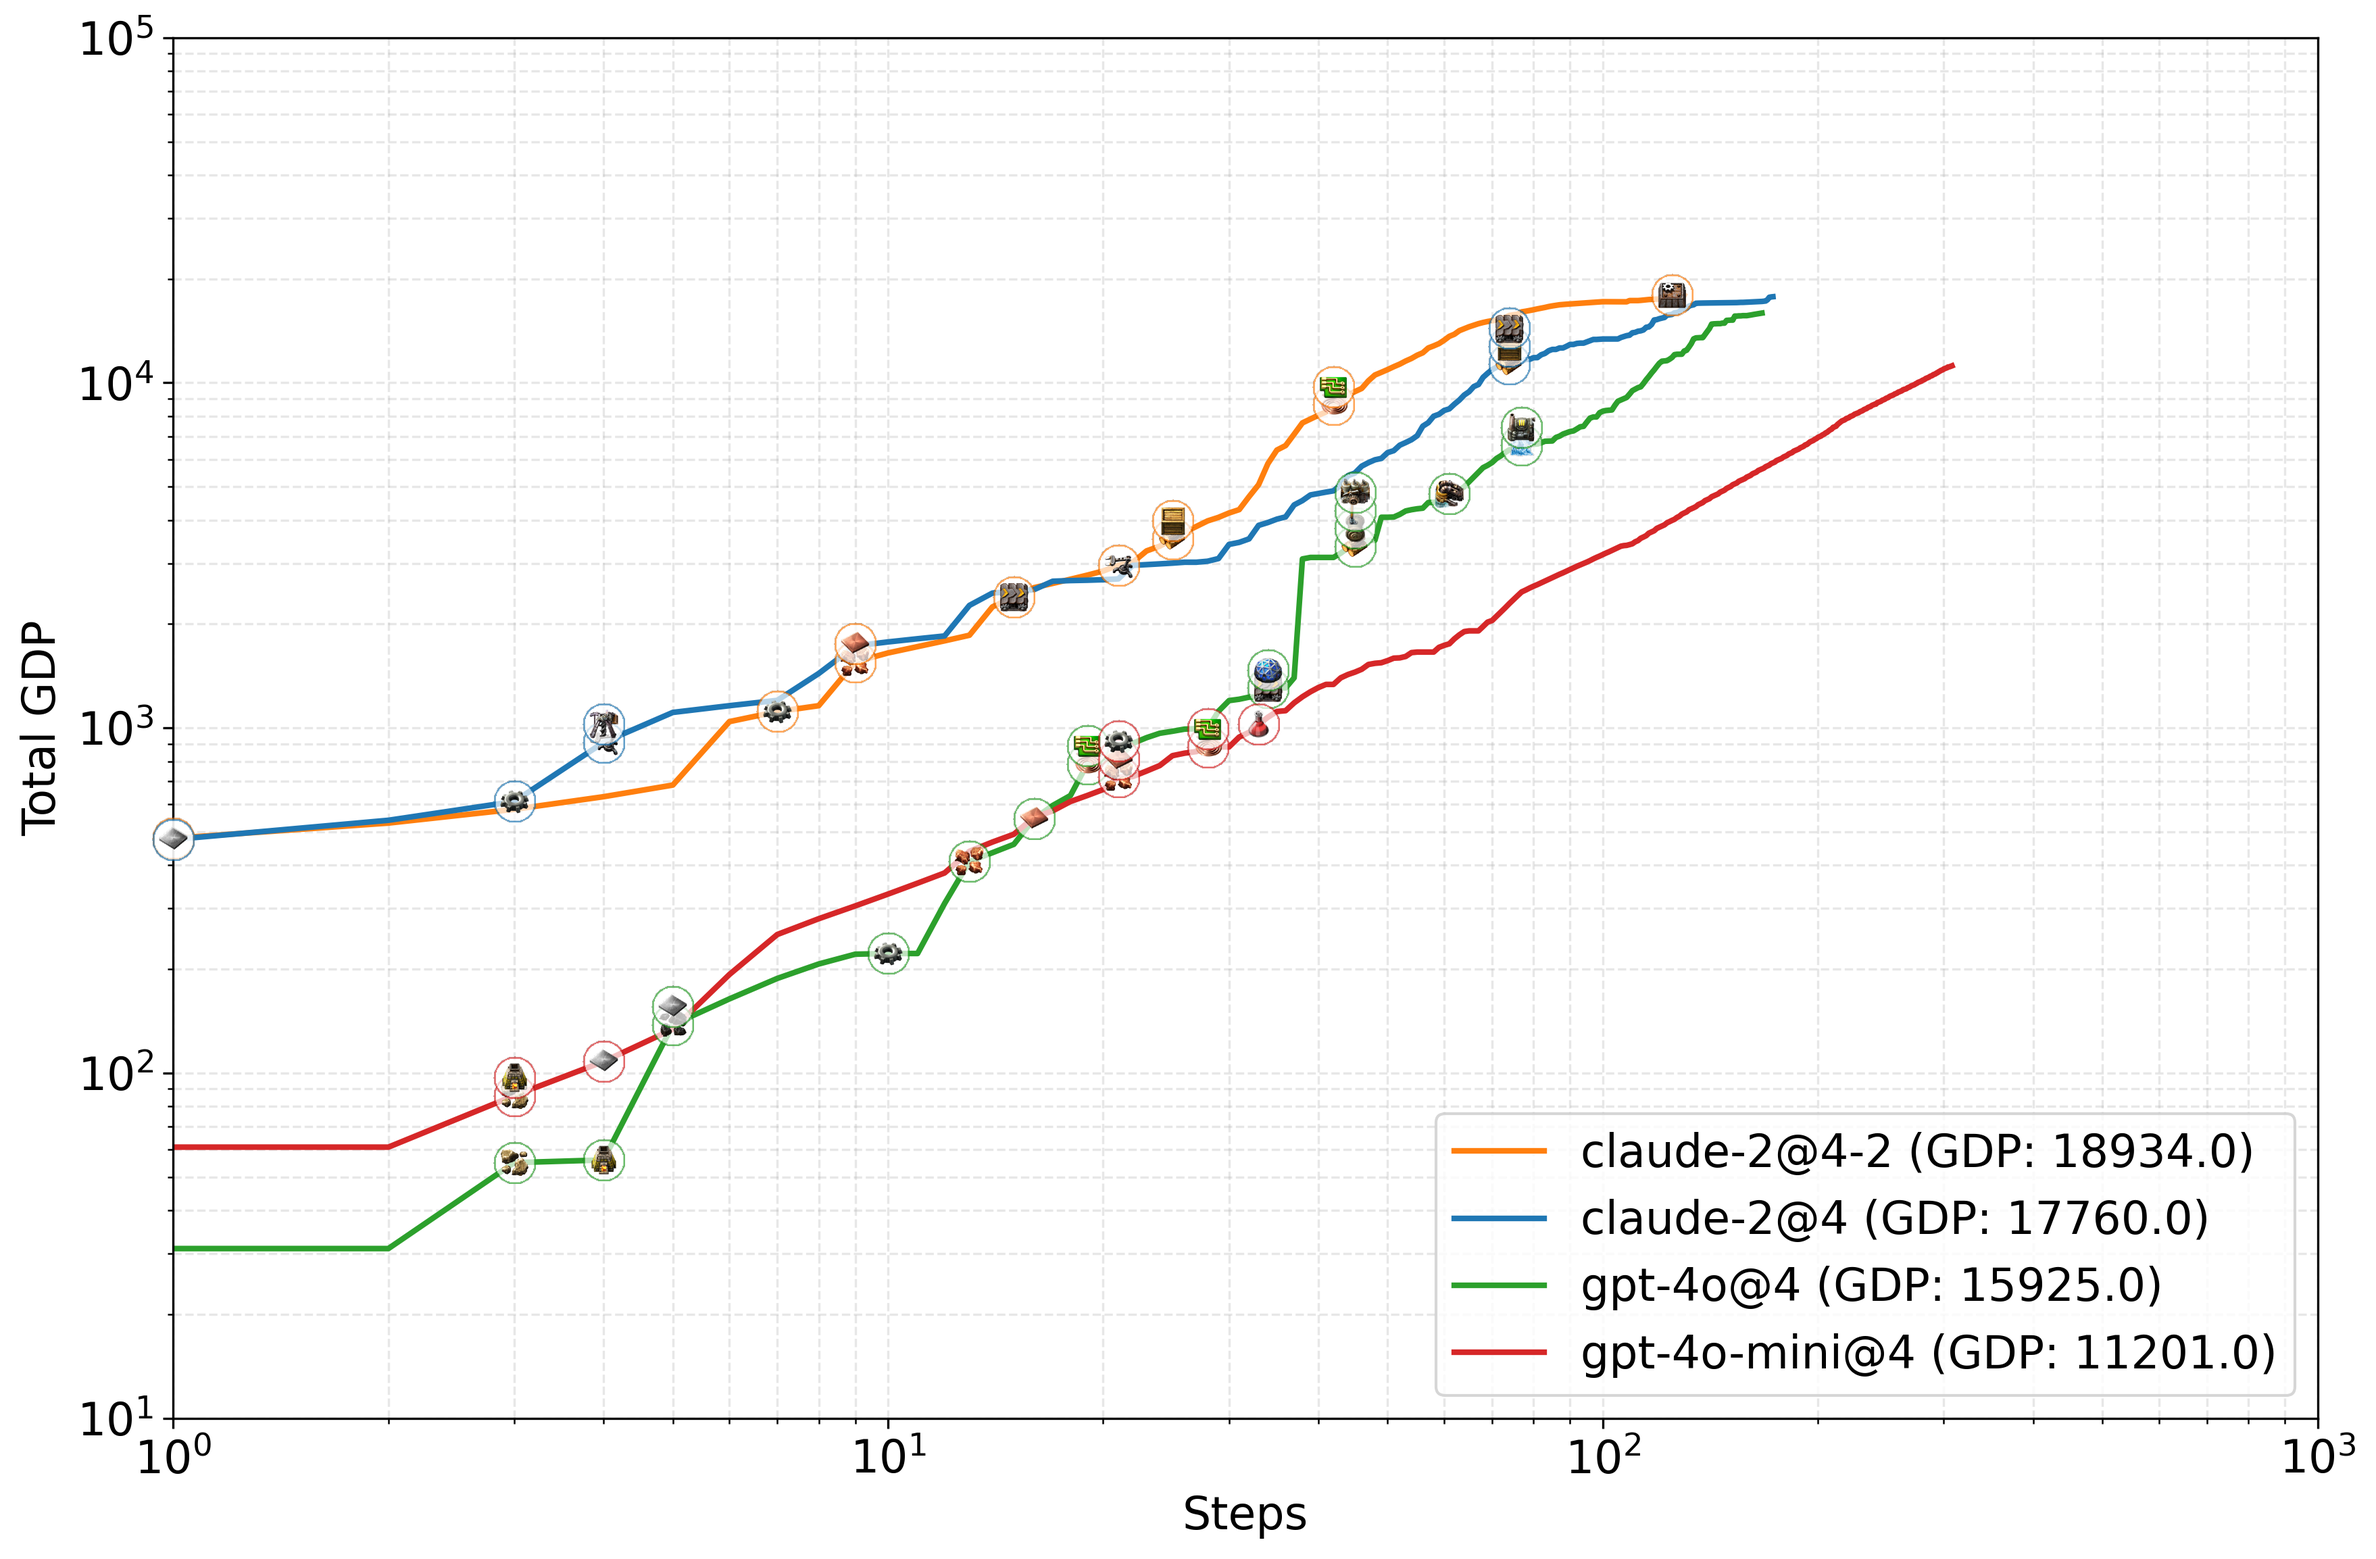
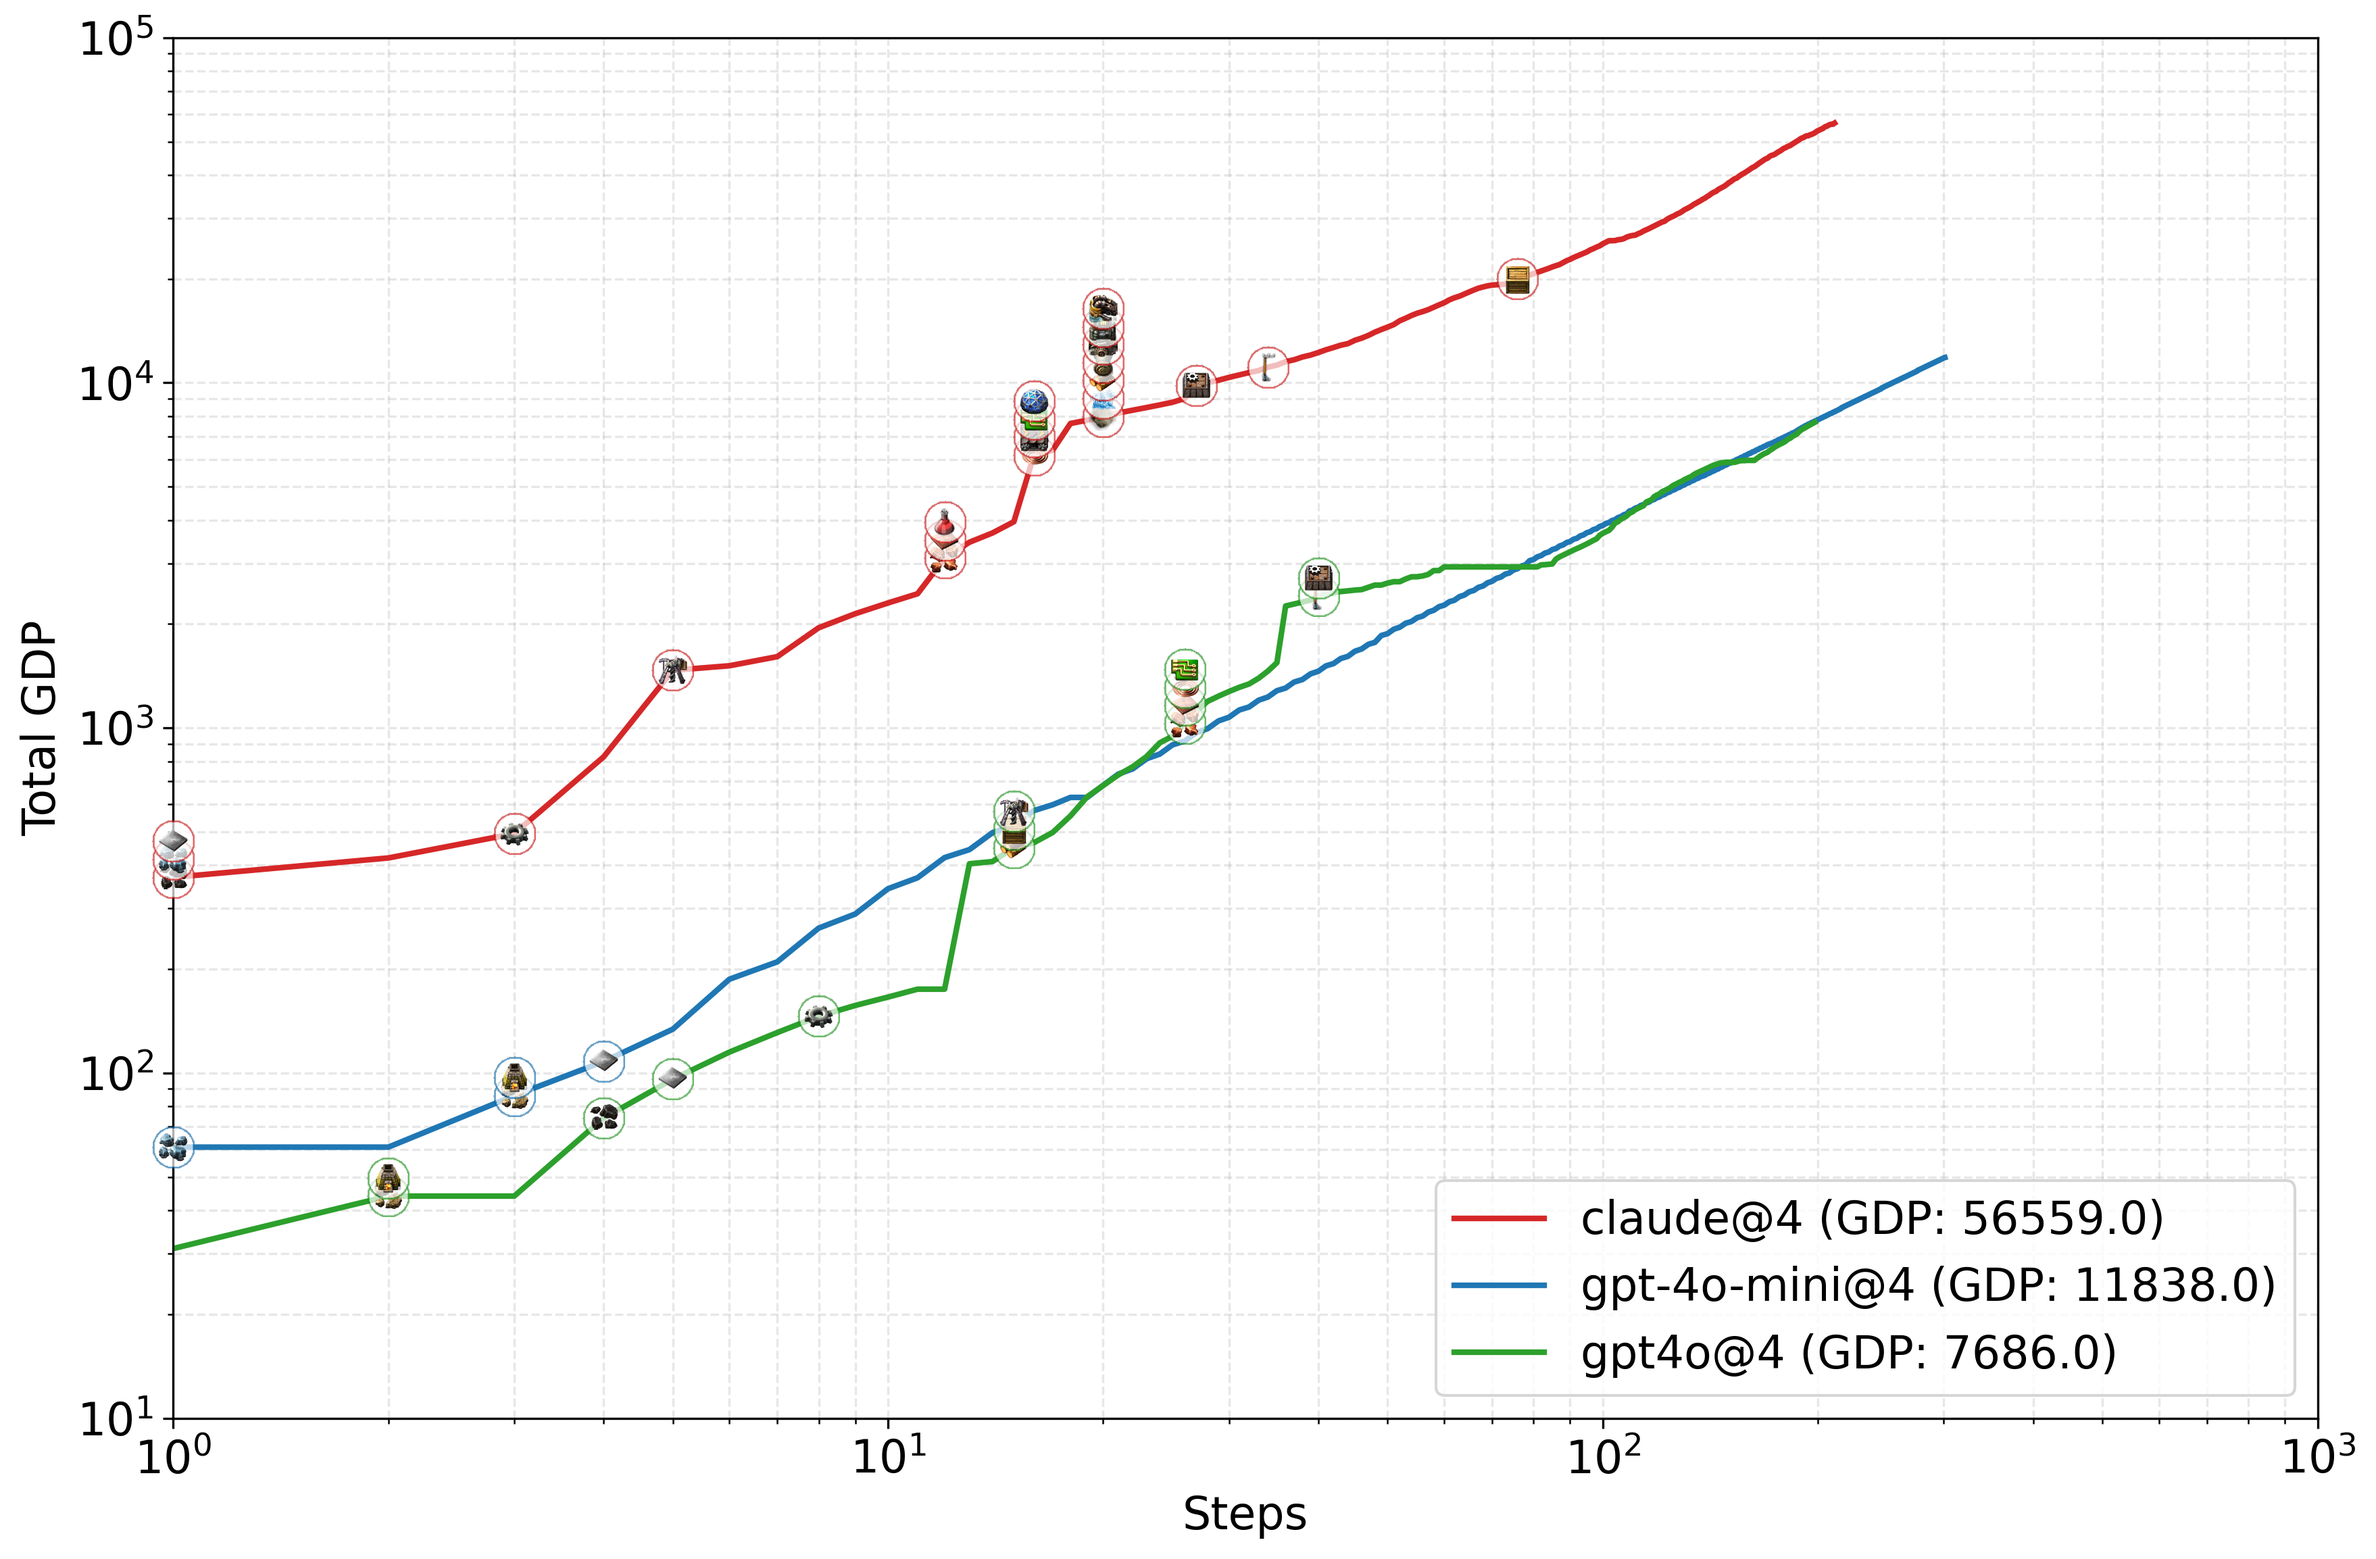
Move to returns a position

diff --git a/src/search/beam/run_parallel.py b/src/search/beam/run_parallel.py
@@ -1,0 +1,183 @@
+import argparse
+import asyncio
+import concurrent.futures
+import multiprocessing
+from typing import List, Tuple
+import os
+from dotenv import load_dotenv
+
+from llm_factory import LLMFactory
+from search.beam.beam_search import ParallelBeamSearch, ParallelBeamConfig
+from cluster.local.cluster_ips import get_local_container_ips
+from search.beam.run import OBSERVATION_SPACE, MANUAL, SYSTEM_PROMPT, HISTORY_SUMMARIZATION_INSTRUCTIONS
+from search.db_client import DBClient
+from factorio_instance import FactorioInstance
+from search.mcts.formatters.recursive_formatter import RecursiveFormatter
+from search.model.game_state import GameState
+
+os.environ.update({"FORCE_COLOR": "1", "TERM": "xterm-256color"})
+load_dotenv()
+
+
+def create_factorio_instances(start_index: int, count: int) -> List[FactorioInstance]:
+    def init_instance(params: Tuple[str, int, int]) -> FactorioInstance:
+        ip, udp_port, tcp_port = params
+        return FactorioInstance(address=ip, tcp_port=tcp_port, bounding_box=200,
+                                fast=True, cache_scripts=False, inventory={}, all_technologies_researched=False)
+
+    ips, udp_ports, tcp_ports = get_local_container_ips()
+    # Slice the IPs and ports based on start_index and count
+    ips = ips[start_index:start_index + count]
+    udp_ports = udp_ports[start_index:start_index + count]
+    tcp_ports = tcp_ports[start_index:start_index + count]
+
+    with concurrent.futures.ThreadPoolExecutor() as executor:
+        return list(executor.map(init_instance, zip(ips, udp_ports, tcp_ports)))
+
+
+async def get_version_to_use(resume_version: int = None) -> int:
+    """Initialize DB client and get the version to use."""
+    db_client = await create_db_client()
+    if resume_version is not None:
+        return resume_version
+    return await db_client.get_largest_version() + 1
+
+
+async def create_db_client() -> DBClient:
+    """Create and return a new database client."""
+    try:
+        return DBClient(
+            max_conversation_length=40,
+            host=os.getenv("SKILLS_DB_HOST"),
+            port=os.getenv("SKILLS_DB_PORT"),
+            dbname=os.getenv("SKILLS_DB_NAME"),
+            user=os.getenv("SKILLS_DB_USER"),
+            password=os.getenv("SKILLS_DB_PASSWORD")
+        )
+    except Exception as e:
+        print(f"\033[91mError connecting to the database: {e}\033[91m")
+        raise
+
+
+async def run_model_search(model: str, instance_start: int, version: int, resume_version: int = None):
+    # Create a new DB client for this process
+    db_client = await create_db_client()
+
+    try:
+        # Create 4 instances for each model's beam search
+        instances = create_factorio_instances(instance_start, 4)
+        for instance in instances:
+            instance.speed(10)
+    except Exception as e:
+        print(f"\033[91mError initialising Factorio instances for model {model}: {e}\033[91m")
+        return
+
+    initial_state = GameState.from_instance(instances[0])
+    API_SCHEMA = instances[0].get_system_prompt()
+    prompt = SYSTEM_PROMPT + '\n\n' + API_SCHEMA + '\n\nObservations:\n' + OBSERVATION_SPACE + '\n\n' + MANUAL + '\n```'
+
+    current_depth = 0
+    resume_heads = None
+
+    if resume_version is not None:
+        if not await db_client.version_exists(resume_version):
+            print(f"Version {resume_version} does not exist in database")
+            return
+
+        beam_width = 4
+        resume_heads = await db_client.get_beam_heads(resume_version, beam_width)
+        if not resume_heads:
+            print(f"No valid beam heads found for version {resume_version}")
+            return
+
+        depth = resume_heads[0].depth
+        for prog in resume_heads:
+            assert prog.depth == depth, "All beam head depths must be the same in order to resume."
+
+        current_depth = depth
+
+    config = ParallelBeamConfig(
+        beam_width=4,
+        expansion_factor=1,
+        system_prompt=prompt,
+        initial_state=initial_state,
+        model=model,
+        beam_kwargs={'error_penalty': 0}
+    )
+
+    llm_factory = LLMFactory(model=model)
+
+    formatter = RecursiveFormatter(
+        chunk_size=32,
+        llm_factory=llm_factory,
+        cache_dir='./summary_cache',
+        summary_instructions=API_SCHEMA + HISTORY_SUMMARIZATION_INSTRUCTIONS,
+        summarize_history=False
+    )
+
+    parallel_beam = ParallelBeamSearch(
+        instances=instances,
+        db_client=db_client,
+        llm_factory=llm_factory,
+        config=config,
+        version=version,
+        version_description=f"model:{model}\ntype:beam",
+        current_depth=current_depth,
+        formatter=formatter,
+        base_port=instances[0].tcp_port,
+        resume_version=resume_version,
+        resume_heads=resume_heads
+    )
+
+    if resume_version:
+        await parallel_beam._verify_version_compatibility()
+
+    await parallel_beam.search(n_iterations=512)
+
+
+def run_model_in_process(model: str, instance_start: int, version: int, resume_version: int = None):
+    """Helper function to run asyncio event loop in a separate process"""
+    asyncio.get_event_loop().set_debug(True)
+    asyncio.run(run_model_search(model, instance_start, version, resume_version))
+
+
+async def main():
+    parser = argparse.ArgumentParser()
+    parser.add_argument('--resume-version', type=int, help='Version to resume from')
+    args = parser.parse_args()
+    resume_version = args.resume_version if args.resume_version else None #450
+
+    # List of models to run in parallel
+    models = ['gpt-4o', 'claude-3-5-sonnet-20241022', 'gpt-4o-mini']
+
+    # Get version to use with a temporary DB client
+    version_to_use = await get_version_to_use(resume_version)
+
+    # Create process pool and run models in parallel
+    with concurrent.futures.ProcessPoolExecutor(max_workers=len(models)) as executor:
+        # Start each model with its own set of 4 instances
+        futures = []
+        for i, model in enumerate(models):
+            instance_start = i * 4  # Each model gets 4 consecutive instances
+            future = executor.submit(
+                run_model_in_process,
+                model,
+                instance_start,
+                version_to_use+i,
+                resume_version
+            )
+            futures.append(future)
+
+        # Wait for all processes to complete
+        concurrent.futures.wait(futures)
+
+        # Check for any exceptions
+        for future in futures:
+            try:
+                future.result()
+            except Exception as e:
+                print(f"\033[91mError in model process: {e}\033[91m")
+
+
+if __name__ == '__main__':
+    asyncio.run(main())

diff --git a/src/controllers/move_to.py b/src/controllers/move_to.py
@@ -18,7 +18,7 @@ class MoveTo(Action):
         self.request_path = RequestPath(connection, game_state)
         self.get_path = GetPath(connection, game_state)
 
-    def __call__(self, position: Position, laying: Prototype = None, leading: Prototype = None) -> bool:
+    def __call__(self, position: Position, laying: Prototype = None, leading: Prototype = None) -> Position:
         """
         Move to a position.
         :param position: Position to move to.
@@ -66,6 +66,6 @@ class MoveTo(Action):
                     remaining_steps = self.connection.send_command(f'/silent-command rcon.print(global.actions.get_walking_queue_length({PLAYER}))')
                 self.game_state.player_location = (position.x, position.y)
 
-            return response#, execution_time
+            return Position(x=response['x'], y=response['y'])#, execution_time
         except Exception as e:
             raise Exception(f"Cannot move. {e}")

diff --git a/src/tests/actions/test_pickup_entity.py b/src/tests/actions/test_pickup_entity.py
@@ -32,6 +32,19 @@ def test_place_pickup(game):
     game.pickup_entity(Prototype.Boiler, position=Position(x=0, y=0))
     assert boilers_in_inventory == game.inspect_inventory()[Prototype.Boiler] - 1
 
+def test_place_pickup_pipe_group(game):
+    """
+    Place a boiler at (0, 0) and then pick it up
+    :param game:
+    :return:
+    """
+    game.move_to(Position(x=0, y=0))
+    water_pipes = game.connect_entities(Position(x=0, y=0), Position(x=10, y=0), connection_type=Prototype.Pipe)
+
+    game.pickup_entity(water_pipes[0])
+    assert game.inspect_inventory()[Prototype.Pipe] == 100
+
+
 def test_place_pickup_inventory(game):
     chest = game.place_entity(Prototype.WoodenChest, position=Position(x=0,y=0))
     iron_plate_in_inventory = game.inspect_inventory()[Prototype.IronPlate]

diff --git a/src/factorio_entities.py b/src/factorio_entities.py
@@ -456,10 +456,11 @@ class ElectricityGroup(EntityGroup):
 
     def __repr__(self) -> str:
         positions = [f"(x={p.position.x},y={p.position.y})" for p in self.poles]
+        max_flow_rate = max([p.flow_rate for p in self.poles])
         if len(positions) > 6:
             positions = positions[:3] + ['...'] + positions[-3:]
         pole_summary = f"[{','.join(positions)}]"
-        return f"\tElectricityGroup(id={self.id}, poles={pole_summary})"
+        return f"\tElectricityGroup(id={self.id}, poles={pole_summary}, voltage={max_flow_rate})"
 
     def __hash__(self):
         return self.name+str(self.id)

diff --git a/src/search/factorio_evaluator.py b/src/search/factorio_evaluator.py
@@ -197,8 +197,10 @@ class FactorioEvaluator:
                 program.code += f'\n{get_entities_code}\n'
                 result += "\n"+str(len(program.code.split('\n')))+f': (\'Entities on the map: {entities}\',)'
 
+            result = result.rstrip()+"\n"
+
             if "error" in result.lower():
-                result += f'(\'Current inventory: {final_inventory}\',)'
+                result += f'(\'Current inventory: {final_inventory}\',)\n'
                 result += f'(\'Entities on the map after the current step: {entities}\',)'
 
             score, _ = instance.namespace.score()

diff --git a/src/search/plots/run_visualiser.py b/src/search/plots/run_visualiser.py
@@ -775,11 +775,15 @@ async def main():
 
         labels = {
             # 416: 'claude-new',
-            434: 'claude-2@4',
-            452: 'gpt-4o-mini@4',
-            #451: 'gpt-4o-mini@4-2',
-            453: 'gpt-4o@4',
-            436: 'claude-2@4-2'
+            # 434: 'claude-2@4',
+            # 452: 'gpt-4o-mini@4',
+            # #451: 'gpt-4o-mini@4-2',
+            # 453: 'gpt-4o@4',
+            # 436: 'claude-2@4-2'
+            457: 'gpt-4o-mini@4',
+            456: 'claude@4',
+            455: 'gpt4o@4',
+
         }
 
         versions = list(labels.keys())

diff --git a/src/tests/connect/test_connect_pipes.py b/src/tests/connect/test_connect_pipes.py
@@ -31,7 +31,9 @@ def game(instance):
 
 def test_connect_offshore_pump_to_boiler(game):
     #game.craft_item(Prototype.OffshorePump)
-
+    game.move_to(game.nearest(Resource.Water))
+    game.move_to(game.nearest(Resource.Wood))
+    game.harvest_resource(game.nearest(Resource.Wood), quantity=100)
     game.move_to(game.nearest(Resource.Water))
     offshore_pump = game.place_entity(Prototype.OffshorePump,
                                       position=game.nearest(Resource.Water))

diff --git a/src/tests/actions/test_move_to.py b/src/tests/actions/test_move_to.py
@@ -30,7 +30,7 @@ def test_move_to(game):
 
 def test_move_to_bug(game):
     # Get stone for stone furnace
-    game.move_to(game.nearest(Resource.Stone))
+    position = game.move_to(game.nearest(Resource.Stone))
     game.harvest_resource(game.nearest(Resource.Stone), quantity=5)
 
     # Check if we got the stone
